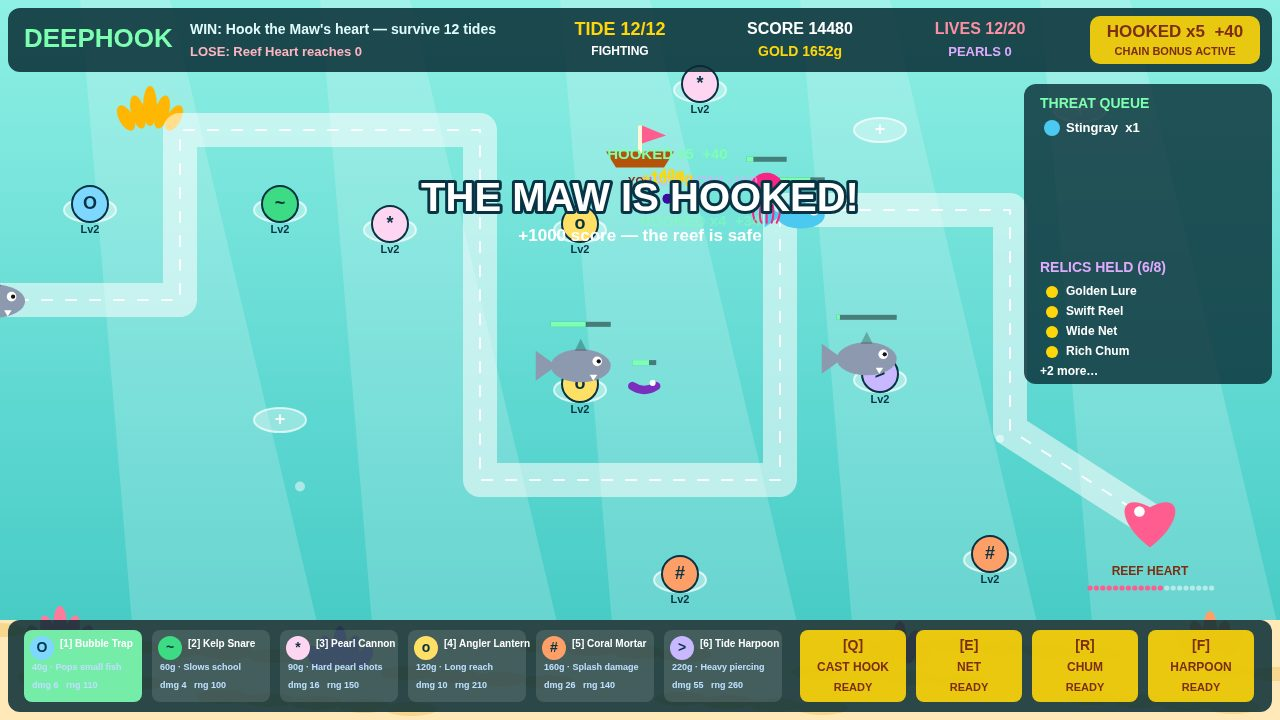
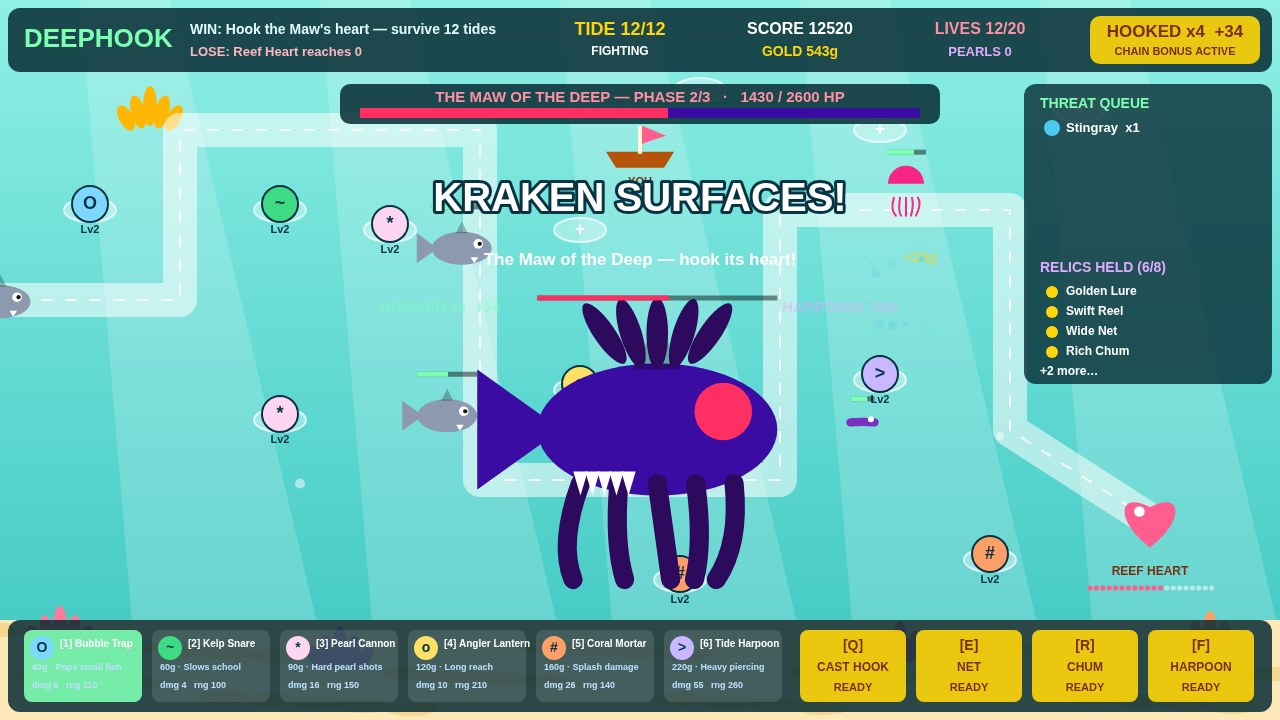
Boss shot: large Kraken + boss HP bar, fix callout overlap

diff --git a/game/src/shots.js b/game/src/shots.js
@@ -49,26 +49,33 @@ function stageBossShot() {
   G.tide = 12; G.tideState = 'fighting';
   G.gold = 518; G.score = 12480; G.lives = 12;
   G.combo = 4; G.comboTimer = 3; G.bestCombo = 9;
-  const build = [['bubble', 0], ['kelp', 1], ['pearl', 3], ['lantern', 4], ['mortar', 6], ['harpoon', 7], ['pearl', 9], ['mortar', 10], ['lantern', 5]];
+  // (No tower on plot 4: it would sit on the callout subtitle line.)
+  const build = [['bubble', 0], ['kelp', 1], ['pearl', 3], ['mortar', 6], ['harpoon', 7], ['pearl', 2], ['mortar', 10], ['lantern', 5]];
   for (const [id, plot] of build) {
     const def = TOWERS.find(t => t.id === id);
     G.towers.push({ plot, def, level: 2, cd: 0, x: PLOTS[plot].x, y: PLOTS[plot].y });
   }
-  const maw = { type: 'maw', hp: 1450, maxHp: 2600, speed: 34, x: 700, y: 300, wp: 6, slow: 0, slowT: 0, hooked: false, wob: 1, dead: false, gold: 500, size: 74, color: '#3a0ca3', score: 1000, chummed: 0 };
+  // Boss shot staging: the Maw is the star — huge, dead-center below the
+  // callout, drifting slowly toward waypoint 5 (down-right) so it stays clear
+  // of the callout text while the frame is live. Do NOT attach a reeling hook
+  // to it: updateHook would drag it to the boat and kill it mid-capture.
+  const maw = { type: 'maw', hp: 1450, maxHp: 2600, speed: 34, x: 640, y: 420, wp: 5, slow: 0, slowT: 0, hooked: false, wob: 1, dead: false, gold: 500, size: 120, color: '#3a0ca3', score: 1000, chummed: 0 };
   G.boss = maw; G.bossMax = 2600; G.bossPhase = 2;
   G.fish.push(maw);
-  const escorts = [['shark', 560, 380], ['ray', 820, 220], ['eel', 620, 420], ['shark', 880, 380], ['jelly', 760, 180]];
+  const escorts = [['shark', 420, 430], ['ray', 920, 300], ['eel', 880, 470], ['shark', 430, 250], ['jelly', 920, 180]];
   escorts.forEach(([type, x, y], i) => {
     const def = FISH[type];
     G.fish.push({ type, hp: def.hp * 0.7, maxHp: def.hp, speed: def.speed, x, y, wp: 6, slow: 0, slowT: 0, hooked: false, wob: i * 2, dead: false, gold: def.gold, size: def.size, color: def.color, score: def.score, chummed: 0 });
   });
   G.spawnQueue = [{ type: 'shark', gap: 1, hpMul: 1 }, { type: 'ray', gap: 1, hpMul: 1 }];
   G.relics = RELICS.slice(0, 6);
-  G.hooks.push({ x: 690, y: 290, tx: 700, ty: 300, t: 0.2, phase: 'reel', fish: maw, caught: false });
-  G.shots.push({ x: 880, y: 380, tx: 700, ty: 300, t: 0.05 });
-  G.shots.push({ x: 580, y: 230, tx: 700, ty: 300, t: 0.1 });
-  addFloat(700, 200, 'HARPOON! -160', '#e0aaff');
-  addFloat(700, 240, 'HOOKED x4  +34', '#7dffb2');
+  // Hook mid-flight toward the Maw's crown (unattached, so it never reels
+  // the boss away); harpoon shots already striking the boss.
+  G.hooks.push({ x: 650, y: 330, tx: 640, ty: 380, t: 0.15, phase: 'fly', fish: null, caught: false });
+  G.shots.push({ x: 880, y: 380, tx: 700, ty: 400, t: 0.05 });
+  G.shots.push({ x: 580, y: 230, tx: 580, ty: 380, t: 0.1 });
+  addFloat(840, 330, 'HARPOON! -160', '#e0aaff');
+  addFloat(440, 330, 'HOOKED x4  +34', '#7dffb2');
   G.callout = { text: 'KRAKEN SURFACES!', sub: 'The Maw of the Deep — hook its heart!', timer: 2.5 };
   G.bubbles = [{ x: 300, y: 500, r: 5, v: 30 }, { x: 1000, y: 450, r: 4, v: 25 }];
 }

diff --git a/game/src/render.js b/game/src/render.js
@@ -127,10 +127,17 @@ function drawFish(f) {
     ctx.fillStyle = '#fff'; ctx.beginPath(); ctx.arc(s * 0.55, -s * 0.15, s * 0.16, 0, 6.29); ctx.fill();
     ctx.fillStyle = '#111'; ctx.beginPath(); ctx.arc(s * 0.6, -s * 0.15, s * 0.07, 0, 6.29); ctx.fill();
     if (f.type === 'maw') {
-      // Kraken crown + jaws.
+      // Kraken crown + jaws, scaled to the maw's size.
       ctx.fillStyle = '#2d0a5e';
       for (let k = -2; k <= 2; k++) {
-        ctx.beginPath(); ctx.ellipse(k * 16, -s * 0.8, 7, 22, k * 0.3, 0, 6.29); ctx.fill();
+        ctx.beginPath(); ctx.ellipse(k * s * 0.22, -s * 0.8, s * 0.09, s * 0.3, k * 0.3, 0, 6.29); ctx.fill();
+      }
+      // Tentacles curling below the maw.
+      ctx.strokeStyle = '#2d0a5e'; ctx.lineCap = 'round'; ctx.lineWidth = s * 0.16;
+      for (let k = -2; k <= 2; k++) {
+        const sway = Math.sin(G.time * 3 + k * 1.4) * s * 0.07;
+        ctx.beginPath(); ctx.moveTo(k * s * 0.32, s * 0.45);
+        ctx.quadraticCurveTo(k * s * 0.38 + sway, s * 0.95, k * s * 0.3 + sway * 1.6, s * 1.25); ctx.stroke();
       }
       ctx.fillStyle = '#fff';
       for (let k = 0; k < 5; k++) { ctx.beginPath(); ctx.moveTo(-s * 0.7 + k * 12, s * 0.35); ctx.lineTo(-s * 0.64 + k * 12, s * 0.55); ctx.lineTo(-s * 0.58 + k * 12, s * 0.35); ctx.closePath(); ctx.fill(); }
@@ -258,7 +265,7 @@ function drawHUD() {
   // Boss bar.
   if (G.boss) {
     ctx.fillStyle = 'rgba(6,42,51,0.85)'; rr(340, 84, 600, 40, 10); ctx.fill();
-    text('THE MAW OF THE DEEP — PHASE ' + G.bossPhase + '/3', 640, 98, 15, '#ff8fa3', 'center');
+    text('THE MAW OF THE DEEP — PHASE ' + G.bossPhase + '/3   ·   ' + Math.max(0, Math.ceil(G.boss.hp)) + ' / ' + G.bossMax + ' HP', 640, 98, 15, '#ff8fa3', 'center');
     ctx.fillStyle = '#3a0ca3'; ctx.fillRect(360, 108, 560, 10);
     ctx.fillStyle = '#ff2e63'; ctx.fillRect(360, 108, 560 * Math.max(0, G.boss.hp / G.bossMax), 10);
   }
@@ -299,7 +306,7 @@ function drawHUD() {
     ctx.strokeStyle = '#083344'; ctx.lineWidth = 6;
     ctx.strokeText(G.callout.text, 640, 200);
     text(G.callout.text, 640, 200, 40, '#ffffff', 'center');
-    if (G.callout.sub) text(G.callout.sub, 640, 236, 17, '#fff', 'center');
+    if (G.callout.sub) text(G.callout.sub, 640, 260, 17, '#fff', 'center');
     ctx.globalAlpha = 1;
   }
   if (G.message) { text(G.message, 640, 600, 14, '#ff8fa3', 'center'); }
